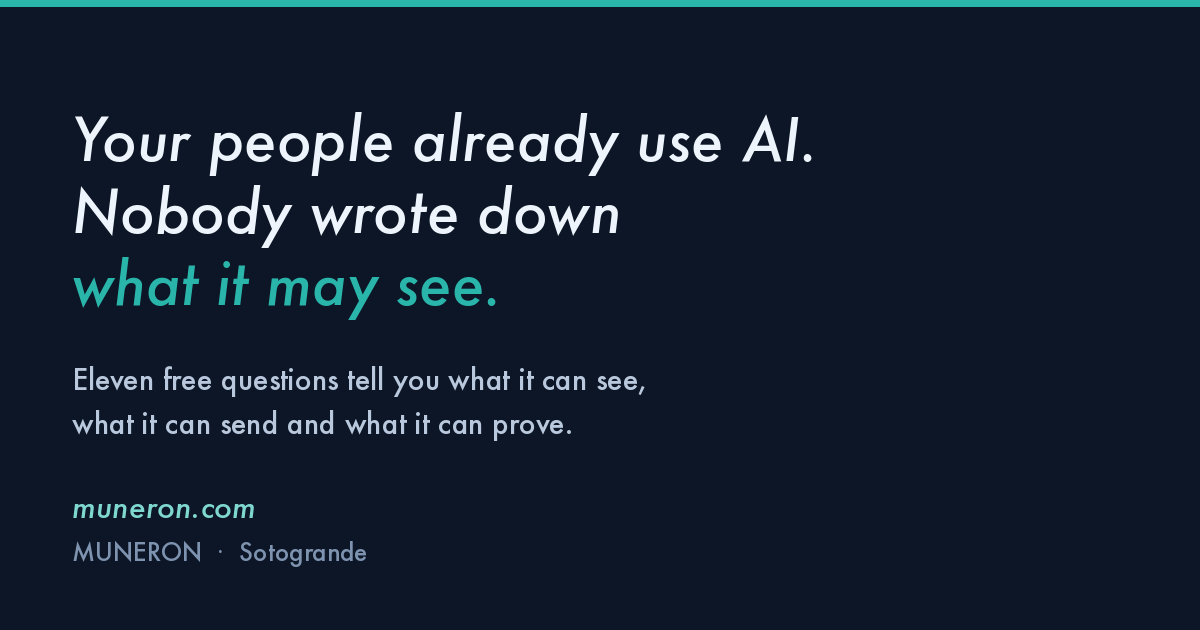
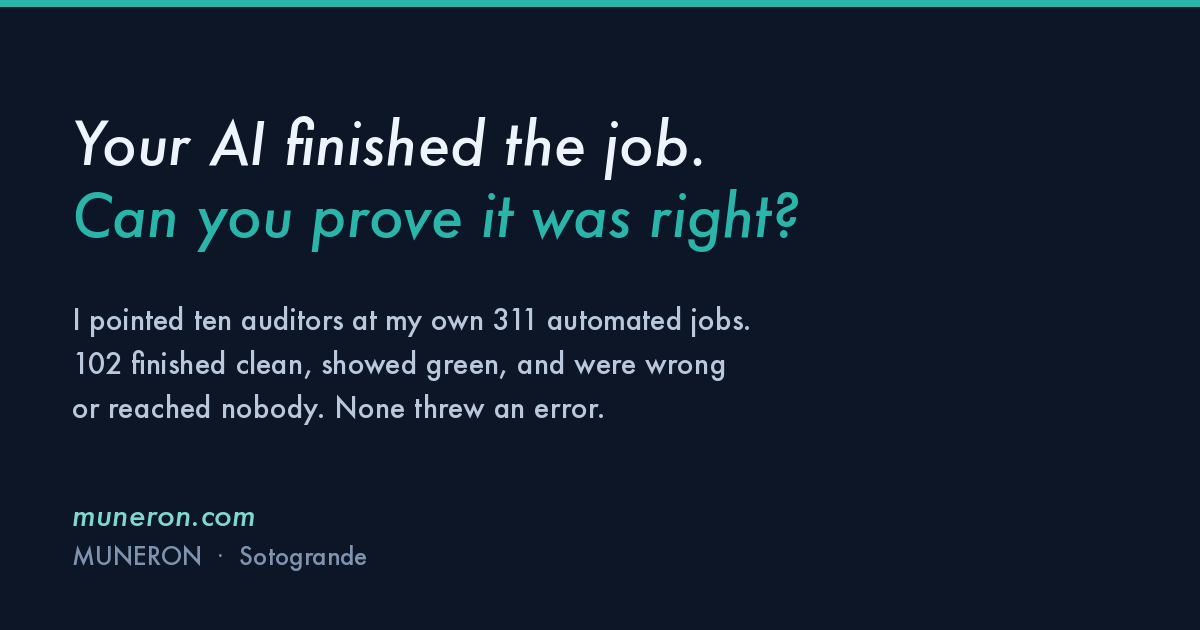
Reposition MUNERON as the evidence layer, for companies that already run AI
The site had drifted, in four steps over two weeks, from an operating layer to
one agent that prepares customer replies. The LinkedIn series and the page were
describing two different companies, and the offer aimed at the segment with the
least budget for it: small companies spend about EUR 18k a year on all AI, while
mid-market runs roughly EUR 310k lines for agent evaluation and observability.

New spine: the audit that turns on your own automation. Hero leads with the real
finding (311 jobs read in a morning, 102 finishing clean and wrong), the offer
becomes a fixed-scope read-only evidence audit from EUR 15,000, and the first
desk becomes the step after it rather than the product. FAQ rewritten around the
questions this buyer actually asks. Hedging removed throughout.

The interactive worked enquiry stays and now carries the through-line: a system
that cannot say it was not given something will invent it.

diff --git a/index.html b/index.html
@@ -2,12 +2,13 @@
 <html lang="en" data-theme="light">
 <head>
   <meta charset="utf-8"><meta name="viewport" content="width=device-width, initial-scale=1">
-  <title>MUNERON - an AI desk for customer enquiries</title>
-  <meta name="description" content="Turn customer enquiries into source-backed reply drafts, with missing facts and decisions marked for review. Explore MUNERON's first Desk Pack and try a free example.">
+  <title>MUNERON - proof that your AI actually did the work</title>
+  <meta name="description" content="Most companies now run AI they cannot account for. We read every automated job you run and show you which ones finish clean and are wrong, or reach nobody. Built inside a real aviation group that runs on it. a free example.">
   <meta property="og:title" content="An AI desk for the work behind a customer reply - MUNERON">
-  <meta property="og:description" content="Approved facts, missing answers and a draft your team can review. Built from an aviation operator's experience. Explore the first Desk Pack.">
+  <meta property="og:description" content="One morning I pointed ten auditors at my own 311 automated jobs. 102 finished clean, showed green, and were wrong or reached nobody. MUNERON does that for you.">
   <meta property="og:url" content="https://muneron.com/"><meta property="og:type" content="website">
-  <meta name="twitter:card" content="summary"><link rel="canonical" href="https://muneron.com/">
+  <meta name="twitter:card" content="summary_large_image">
+<meta property="og:image" content="https://muneron.com/assets/card.png"><link rel="canonical" href="https://muneron.com/">
   <link rel="icon" href="/assets/icon.svg" type="image/svg+xml"><link rel="stylesheet" href="/assets/fonts.css"><link rel="stylesheet" href="/assets/site.css"><link rel="stylesheet" href="/assets/sales.css">
   <script src="/assets/theme.js"></script><script src="/assets/hero-field.js" defer></script>
 <script src="/assets/site.js" defer></script><script type="module" src="/assets/reply.js"></script>
@@ -16,8 +17,8 @@
 <a class="skip-link" href="#main">Skip to content</a>
 <header class="site-header"><nav class="shell nav" aria-label="Main navigation">
   <a class="brand-mark" href="/" aria-label="MUNERON home">MUNER<b>ON</b></a>
-  <div class="nav-links"><a href="#example">See the work</a><a href="#pack">The €390 pack</a><a href="/aviation/">Our experience</a></div>
-  <a class="button button-small" href="/start/">Tell us about your desk</a>
+  <div class="nav-links"><a href="#example">What we find</a><a href="#pack">The audit</a><a href="/aviation/">Our experience</a></div>
+  <a class="button button-small" href="/start/">Tell me what you run</a>
 </nav></header>
 <main id="main">
   <div class="hero-field">
@@ -27,11 +28,11 @@
     <div class="hero-veil" aria-hidden="true"></div>
   <section class="shell sales-hero">
     <div class="sales-intro">
-      <p class="audience">For owners and teams in distribution &amp; equipment supply</p>
-      <h1>Turn customer enquiries into replies your team can approve.</h1>
-      <p class="lead">The work is finding the right facts, checking what is missing and deciding what you can promise. That is the job we are building the first MUNERON Desk Pack around.</p>
-      <div class="actions"><a class="button" href="/start/">Tell us about your desk <span aria-hidden="true">↗</span></a><a class="text-link" href="#example">See a worked enquiry ↓</a></div>
-      <p class="small muted">First release in development, with a planned price of €390 for one person. Enquiries are open before launch.</p>
+      <p class="audience">For companies already running AI, who cannot yet prove what it did</p>
+      <h1>Your AI finished the job. Can you prove it was right?</h1>
+      <p class="lead">I run an aviation group on an AI layer I built myself. One morning I pointed ten auditors at my own 311 automated jobs. <strong>102 of them finished clean, showed green, and were either wrong or reached nobody.</strong> Not one had thrown an error. That is the thing nobody is looking at, and it is what MUNERON does for you.</p>
+      <div class="actions"><a class="button" href="/start/">Start with the evidence audit <span aria-hidden="true">↗</span></a><a class="text-link" href="/test/">Or run the free eleven-question check ↓</a></div>
+      <p class="small muted">Read-only. We change nothing in your systems and take nothing out of them.</p>
     </div>
     <figure class="work-preview" aria-labelledby="preview-caption">
       <figcaption id="preview-caption">Worked example <span>Fictional data</span></figcaption>
@@ -44,9 +45,9 @@
     </figure>
   </section>
   </div>
-  <section class="origin-strip"><div class="shell"><p>Developed from work inside an aviation parts, MRO and landing gear leasing business.</p><a href="/aviation/">Read the founder's account ↗</a></div></section>
+  <section class="origin-strip"><div class="shell"><p>216 automations live across four machines, in a real aviation parts, MRO and landing gear leasing group. Mine.</p><a href="/aviation/">Read the founder's account ↗</a></div></section>
   <section class="shell section" id="example" aria-labelledby="example-heading">
-    <div class="section-heading"><h2 id="example-heading">The answer is only useful if the facts behind it hold up.</h2><p class="lead">Here is the kind of handover we mean: a reply draft, its sources and the questions that still need a person. Open the source notes and check the example yourself.</p></div>
+    <div class="section-heading"><h2 id="example-heading">A system that cannot say <em>I was not given that</em> will invent it.</h2><p class="lead">This is the rule the whole layer is built on, running live. Put your own numbers in, then take one away and watch what it refuses to write. Every figure it does write carries the source it came from.</p></div>
     <div class="worked-enquiry">
       <div class="source-column"><h3>What the assistant is given</h3>
         <form id="reply-form" hidden>
@@ -78,25 +79,25 @@
   </section>
   <section class="band" id="pack">
     <div class="shell pack-layout"><div>
-      <p class="tag">The Desk Pack · first release in development</p><h2 class="pack-title">A repeatable customer-enquiry workflow for one desk.</h2>
-      <p class="lead">For the person who answers product, availability and delivery questions using approved documents. Start with one role and the files that role is allowed to use.</p>
+      <p class="tag">The evidence audit</p><h2 class="pack-title">We read every automated job you run, in one pass.</h2>
+      <p class="lead">Ten auditors and twelve adversarial checks, read live, in a morning. You get the list of what runs, what it claims, and which ones finish clean while producing the wrong answer or reaching nobody. Read-only throughout.</p>
       <dl class="feature-list">
-        <div><dt>Your role and approved sources</dt><dd>A reusable setup for the work, the writing style, the source documents and the decisions that stay with a person.</dd></div>
-        <div><dt>A consistent review handover</dt><dd>A reply draft, references for factual claims, missing information and exceptions to resolve before sending.</dd></div>
-        <div><dt>Setup, checks and recovery</dt><dd>Instructions for the supported application, example-based acceptance checks and a record of what was verified on that desk.</dd></div>
+        <div><dt>Every job, named and counted</dt><dd>What actually runs, on which machine, on what schedule, and who it reaches. Most companies have never had this list.</dd></div>
+        <div><dt>The green ones that are wrong</dt><dd>The expensive category: a job that exits cleanly, shows green and delivers a wrong result or nothing at all. On my own estate that was 102 of 311.</dd></div>
+        <div><dt>What to switch off, fix, merge, keep</dt><dd>A verdict per job with the evidence behind it, and the order to do it in. Yours to keep and to hand to whoever runs your systems.</dd></div>
       </dl>
-    </div><aside class="offer" aria-labelledby="offer-heading"><h3 id="offer-heading">Customer Enquiry Desk</h3><p class="price">€390 <span>Planned one-person price</span></p><p>One role profile. Self-service setup and recovery documentation. Twelve months of updates planned.</p><p>Your AI subscription is separate. Custom integrations and a human support service are not included.</p><a class="button" href="/start/">Ask about this pack ↗</a><p class="small">We are collecting first-release enquiries. Compatibility, availability, final scope, taxes and terms will be confirmed before an order. No payment is being taken.</p></aside></div>
+    </div><aside class="offer" aria-labelledby="offer-heading"><h3 id="offer-heading">Evidence audit</h3><p class="price">From €15,000 <span>Fixed scope, agreed in writing before anything starts</span></p><p>One pass over your automated estate, the verdict list, the evidence behind each verdict, and a walkthrough with whoever owns the systems.</p><p>Read-only. Nothing is switched off, changed or sent. What happens next is yours to decide.</p><a class="button" href="/start/">Ask about the audit ↗</a><p class="small">After the audit, the usual next step is one desk: one person, one job, with the boundary proven on your own data before handover.</p></aside></div>
   </section>
-  <section class="shell section" id="fit"><div class="split"><h2>Start where the work can be kept small.</h2><div class="prose"><p>A good first desk has recurring customer enquiries, a person responsible for the replies and a manageable set of approved product facts. Distribution and equipment supply are our initial focus; aviation is not a requirement.</p><p>If the job needs a live ERP connection, automatic sending, technical certification or someone to run the workflow for you, it is outside this pack. Tell us that upfront so you do not buy the wrong thing.</p><p><a class="text-link" href="/start/">Describe your setup in three questions ↗</a></p></div></div></section>
-  <section class="founder-section"><div class="shell split"><div><p class="tag">Deividas Jurkstas · founder</p><h2>It started with the work in our own company.</h2></div><div class="prose"><p>I run an aviation parts trading, MRO and landing gear leasing group. We built HAI to help with records, incoming enquiries and commercial decisions, then started adapting it for colleagues' desks.</p><p>The useful part was not just producing text. It was giving the next person the facts, the outstanding questions and something they could make a decision on.</p><p>MUNERON is how I am taking that experience outside the group. The public pack is a smaller, separate product; the internal aviation implementation is not what €390 buys.</p><a class="text-link" href="/aviation/">How the internal work informs MUNERON ↗</a></div></div></section>
+  <section class="shell section" id="fit"><div class="split"><h2>This is for a company that already runs AI.</h2><div class="prose"><p>Fifty to a thousand people, automations and assistants already in daily use, and somebody who would be asked an uncomfortable question if one of them quietly produced the wrong answer for a month. Any industry. Aviation is where this was built, not who it is for.</p><p>It is not a security certification and it does not replace your administrator. It tells you what your automation actually did, which is a different question, and the one nobody has been answering.</p><p><a class="text-link" href="/start/">Tell me what you run ↗</a></p></div></div></section>
+  <section class="founder-section"><div class="shell split"><div><p class="tag">Deividas Jurkstas · founder</p><h2>I built this because it was my money.</h2></div><div class="prose"><p>I run an aviation parts trading, MRO and landing gear leasing group. We built HAI to read records, handle incoming enquiries and support commercial decisions, and it now runs 216 automations across four machines.</p><p>In aviation a wrong document costs real money, so I had to build the boring half that nobody demos: a stop control every engine checks before it runs, a gate that refuses to publish a figure with no source row, boundaries proven by blind tests before an assistant reaches a colleague, and an audit that turns on my own system and tells me what it got wrong.</p><p>MUNERON is how that goes outside the group. Not the aviation implementation, which is ours. The layer underneath it: the evidence, the boundaries and the refusals.</p><a class="text-link" href="/aviation/">How the internal work informs MUNERON ↗</a></div></div></section>
   <section class="shell section faq" id="questions"><h2>Before you decide</h2>
-    <details><summary>Why buy this if my AI already writes emails?</summary><p>You may not need it. Try the free example first. The paid pack is being developed for teams that need a repeatable role setup, consistent source checks and a documented handover, rather than recreating the instructions each time. We still need to validate that difference with independent users.</p></details>
-    <details><summary>Which AI applications will it support?</summary><p>The internal employee packages we inspected use Claude Code. The first public compatibility checks will focus on that application on Mac and Windows. Claude chat, Claude Cowork, ChatGPT and Copilot are different products; support for one does not establish support for the others. Tell us what you use before considering a purchase. The free text example can be tried in an assistant your organisation has approved.</p></details>
-    <details><summary>Does MUNERON receive my company documents?</summary><p>This website does not accept document uploads. The example contains fictional information. The planned pack runs through your own AI application, whose settings and terms govern any information it receives. Keep private records out of sales enquiries and get your organisation's approval before using real work material.</p></details>
-    <details><summary>Is this an AI security product?</summary><p>No. A written rule is not a permission boundary. The pack must use and check the controls available in its supported application; it does not replace your administrator, provide a security certification or guarantee that no information can leak. Our <a href="/test/">free Boundary Check</a> is a separate, evidence-led checklist you can use with whoever administers your AI.</p></details>
-    <details><summary>What happens after I enquire?</summary><p>You describe the work, your AI application and the computer setup. We review whether it fits the first release. If it does, the next step is a written scope and compatibility confirmation before any order. An enquiry does not subscribe you to a mailing list or commit you to buy.</p></details>
+    <details><summary>Our IT already has dashboards. Is this not the same?</summary><p>Dashboards show you the jobs that failed. The expensive ones are the jobs that succeeded. A frozen date window, a watchdog reading the wrong queue, a report that reaches nobody: all green, all wrong, none of them an error. That is the category this audit is built to find, and it is the one monitoring tools are not looking for.</p></details>
+    <details><summary>Which systems do you need access to?</summary><p>Read access to the machines your automation runs on, and to its own logs and outputs. Not your customer database, not your accounting, not your mailboxes. We are auditing what your automation did, which lives in its own records. Scope is written down before anything starts and your administrator approves it.</p></details>
+    <details><summary>Does anything leave our systems?</summary><p>No. The audit is read-only and the findings are written on your side. This website accepts no uploads and the live example on this page runs entirely in your browser.</p></details>
+    <details><summary>Is this a security product?</summary><p>No, and you should be suspicious of anyone who says it is. It tells you what your automation actually produced and where it went. It does not certify your systems or replace your administrator. Our <a href="/test/">free Boundary Check</a> is a separate, evidence-led checklist you can use with whoever administers your AI.</p></details>
+    <details><summary>What happens after the audit?</summary><p>You hold a list of every job, a verdict on each and the evidence behind it. Most companies switch off a chunk immediately. The usual next step after that is one desk: one person, one job they already do, with the boundary proven on your own data before anything reaches them.</p></details>
   </section>
-  <section class="closing"><div class="shell split"><div><h2>Is there a desk in your business doing this work?</h2><p class="lead">Tell us what the person answers and what they use today. No customer files or technical audit needed to start.</p><a class="button" href="/start/">Tell us about your desk ↗</a></div><div class="prose"><h3>Just exploring?</h3><p>Try the fictional enquiry in your own assistant, or use the Boundary Check with your administrator. Both are free.</p><p><a href="/downloads/customer-enquiry-example.txt" download>Get the worked example</a><br><a href="/test/">Open the full Boundary Check</a></p><p class="small">Prefer a direct conversation? <a href="mailto:hello@muneron.com?subject=Customer%20Enquiry%20Desk">hello@muneron.com</a></p></div></div></section>
+  <section class="closing"><div class="shell split"><div><h2>How much of your automation could you account for tomorrow?</h2><p class="lead">If the honest answer is "not much", that is the normal starting point and it is exactly what the audit is for. Tell me what runs and who owns it. No files and no access needed to have the conversation.</p><a class="button" href="/start/">Tell me what you run ↗</a></div><div class="prose"><h3>Just exploring?</h3><p>Run the eleven-question check on the AI your people already use, or put your own numbers into the example above. Both are free and neither sends anything anywhere.</p><p><a href="/downloads/customer-enquiry-example.txt" download>Get the worked example</a><br><a href="/test/">Open the full Boundary Check</a></p><p class="small">Prefer a direct conversation? <a href="mailto:hello@muneron.com?subject=Customer%20Enquiry%20Desk">hello@muneron.com</a></p></div></div></section>
 </main>
 <footer class="shell site-footer"><div><a class="brand-mark" href="/">MUNER<b>ON</b></a><p class="small muted">MUNERON, S.L. (en formación) · Sotogrande, Spain</p></div><div class="footer-tools"><a href="/aviation/">Our experience</a><a href="/test/">Boundary Check</a><button class="theme-button" data-theme-toggle type="button" aria-label="Switch to dark theme">Dark theme</button></div></footer>
 </body></html>
